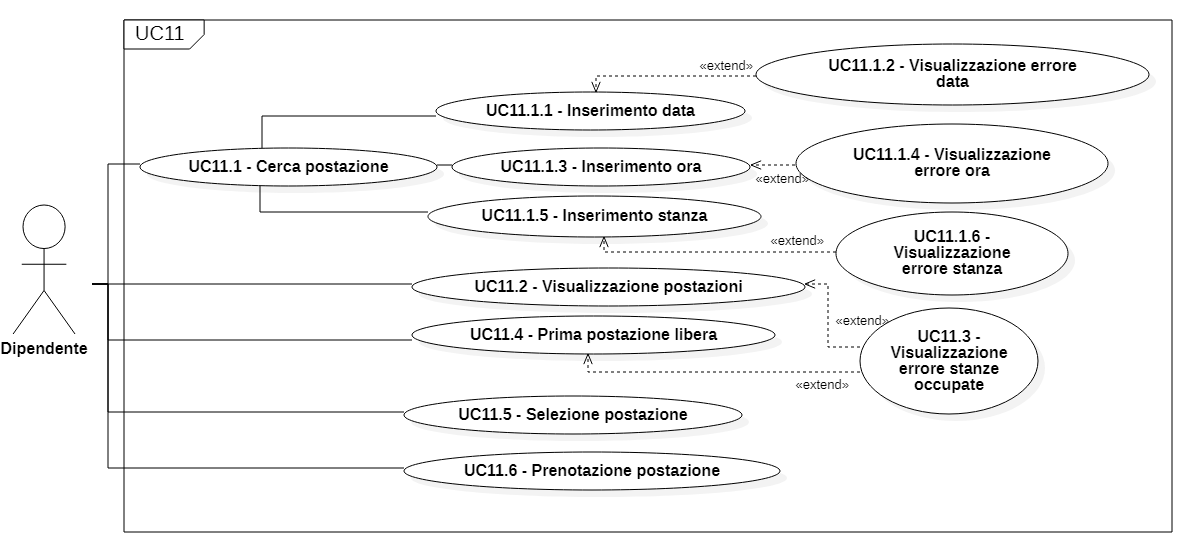
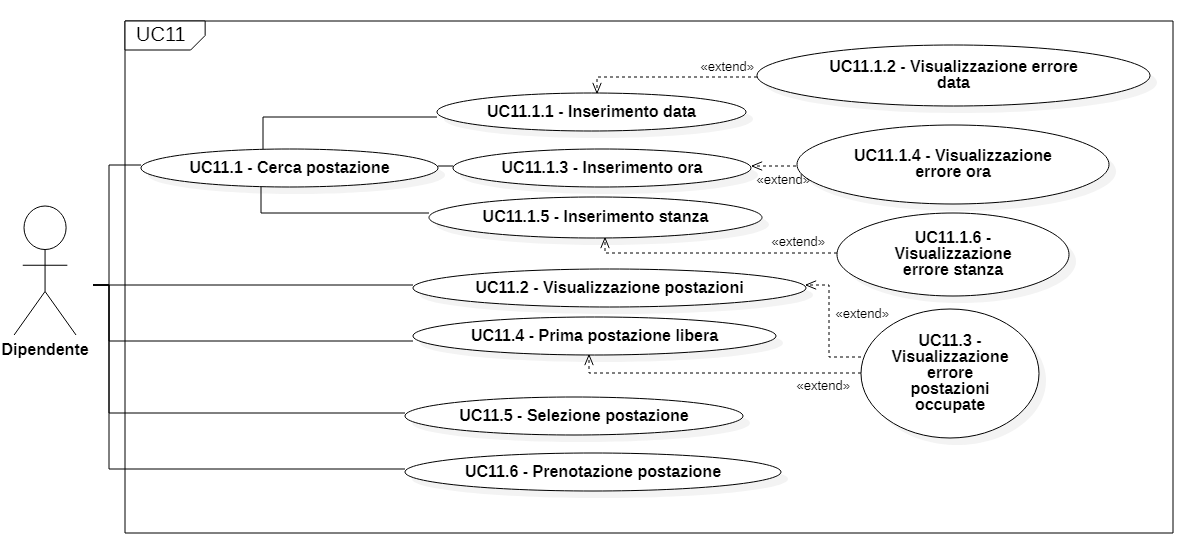
Correzioni AdR #42

diff --git a/esterni/AnalisiDeiRequisiti/res/sections/casiUso.tex b/esterni/AnalisiDeiRequisiti/res/sections/casiUso.tex
@@ -686,7 +686,7 @@ In questa sezione sono riportati tutti i casi d'uso individuati, ordinati per at
            	\item\textbf{Postcondizione:} l’utente conosce lo stato della postazione.
            	\item\textbf{Estensioni:}
            	\begin{itemize}
-           		\item[$-$] visualizzazione errore: lo smartphone è troppo distante dal tag RFID per effettuare correttamente la scansione (UC9.2).
+           		\item[$-$] visualizzazione errore: lo smartphone è troppo distante dal tag RFID per effettuare correttamente la scansione (UC8.2).
            	\end{itemize}
 \end{itemize}
 \subsubsection{ UC8.1 - Scansione tag RFID}
@@ -740,8 +740,8 @@ In questa sezione sono riportati tutti i casi d'uso individuati, ordinati per at
            	\item\textbf{Estensioni:} 
            	\begin{itemize}
            		\item[$-$] visualizzazione errore: se l'utente sposta lo smartphone dal tag RFID (ad esempio per una telefonata), 
-           		dopo un timeout di qualche minuto, viene visualizzato un messaggio di errore (UC10.2);
-           		\item[$-$] visualizzazione errore: se l'utente si dimentica di premere il bottone di fine occupazione della postazione, viene visualizzato un messaggio di errore (UC 10.4).
+           		dopo un timeout di qualche minuto, viene visualizzato un messaggio di errore (UC9.2);
+           		\item[$-$] visualizzazione errore: se l'utente si dimentica di premere il bottone di fine occupazione della postazione, viene visualizzato un messaggio di errore (UC 9.4).
            	\end{itemize}
 \end{itemize}
 \subsubsection{ UC9.1 - Presenza in tempo reale}
@@ -836,17 +836,17 @@ In questa sezione sono riportati tutti i casi d'uso individuati, ordinati per at
 	\item\textbf{Descrizione:} l’utente vuole prenotare una postazione di una stanza in un determinato giorno e orario.
 	\item\textbf{Scenario principale:} 
 	\begin{itemize}
-		\item[$-$] l’utente inserisce la data (UC10.1.1);
-		\item[$-$] l’utente inserisce l'orario (UC10.1.3);
-		\item[$-$] l’utente inserisce l'identificativo della stanza (UC10.1.5).
+		\item[$-$] l’utente inserisce la data (UC11.1.1);
+		\item[$-$] l’utente inserisce l'orario (UC11.1.3);
+		\item[$-$] l’utente inserisce l'identificativo della stanza (UC11.1.5).
 	\end{itemize}
 	\item\textbf{Precondizione:} l’utente sta navigando nella sezione dell'applicazione dedicata alla ricerca di una postazione.
-	\item\textbf{Postcondizione:} l’utente sta navigando nella sezione dell'applicazione dedicata alla ricerca di una postazione.
+	\item\textbf{Postcondizione:} l’utente inserisce i campi necessari alla ricerca della postazione desiderata.
 	\item\textbf{Estensioni:} l’utente inserisce i campi necessari alla ricerca della postazione desiderata.
 	\begin{itemize}
-		\item[$-$] l’utente inserisce una data non valida (UC10.1.2);
-		\item[$-$] l’utente inserisce un orario non valido (UC10.1.4);
-		\item[$-$] l’utente inserisce una stanza non valida (UC10.1.6).
+		\item[$-$] l’utente inserisce una data non valida (UC11.1.2);
+		\item[$-$] l’utente inserisce un orario non valido (UC11.1.4);
+		\item[$-$] l’utente inserisce una stanza non valida (UC11.1.6).
 	\end{itemize}
 \end{itemize}
 \subsubsection{ UC11.1.1 - Inserimento data }
@@ -922,10 +922,10 @@ In questa sezione sono riportati tutti i casi d'uso individuati, ordinati per at
 	\item\textbf{Postcondizione:} l’utente visualizza le postazioni nella stanza.
 	\item\textbf{Estensioni:}
 	\begin{itemize}
-		\item[$-$] visualizzazione errore: tutte le postazioni nella stanza selezionata sono occupate o guaste (UC 12.3).
+		\item[$-$] visualizzazione errore: tutte le postazioni nella stanza selezionata sono occupate o guaste (UC11.3).
 	\end{itemize}
 \end{itemize}
-\subsubsection{ UC11.3 - Visualizzazione errore: stanze occupate }
+\subsubsection{ UC11.3 - Visualizzazione errore: postazioni occupate }
 \begin{itemize}
 	\item\textbf{Attori Primari:} dipendente.
 	\item\textbf{Descrizione:} l’utente visualizza un messaggio di errore, in quanto non ci sono postazioni prenotabili.
@@ -933,10 +933,10 @@ In questa sezione sono riportati tutti i casi d'uso individuati, ordinati per at
 	\begin{itemize}
 		\item[$-$] l’utente ha inserito i campi data, orario, stanza;
 		\item[$-$] il sistema elabora la richiesta;
-		\item[$-$] viene visualizzato un messaggio di errore che consiglia di selezionare un'altra fascia oraria.
+		\item[$-$] viene visualizzato un messaggio di errore che consiglia di selezionare un'altra fascia oraria o stanza.
 	\end{itemize}
 	\item\textbf{Precondizione:} l’utente ha compilato i campi data, orario, stanza oppure ha selezionato la sezione prima postazione 
-	disponibile (UC12.4).
+	disponibile (UC11.4).
 	\item\textbf{Postcondizione:} l’utente visualizza un messaggio di errore specifico e non porta a termine l’azione.
 \end{itemize}
 \subsubsection{ UC11.4 - Prima postazione libera }
@@ -944,12 +944,12 @@ In questa sezione sono riportati tutti i casi d'uso individuati, ordinati per at
 	\item\textbf{Attori Primari:} dipendente.
 	\item\textbf{Descrizione:} l’utente riceve l'identificativo di una postazione igienizzata e libera in una determinata stanza, 
 	in modo automatico e in base a un criterio di distanziamento dalle altre postazioni.
-	\item\textbf{Scenario principale:} viene fornito l'identificativo di una postazione libera e igienizzata, oppure di una libera e non igienizzata (si veda UC11).
+	\item\textbf{Scenario principale:} viene fornito l'identificativo di una postazione libera e igienizzata, oppure di una libera e non igienizzata (si veda UC10).
 	\item\textbf{Precondizione:} l’utente preme il bottone nella sezione della prima postazione disponibile.
 	\item\textbf{Postcondizione:} l’utente riceve l'identificativo di una postazione.
 	\item\textbf{Estensioni:}
 	\begin{itemize}
-		\item[$-$] tutte le postazioni nella stanza selezionata sono occupate o guaste (UC12.3).
+		\item[$-$] tutte le postazioni nella stanza selezionata sono occupate o guaste (UC11.3).
 	\end{itemize}
 \end{itemize}
 \subsubsection{ UC11.5 - Selezione postazione }
@@ -970,7 +970,7 @@ In questa sezione sono riportati tutti i casi d'uso individuati, ordinati per at
 	\item\textbf{Postcondizione:} l'utente prenota la postazione.
 	\item\textbf{Estensioni:}
 	\begin{itemize}
-		\item[$-$] nel caso in cui l'utente scelga di prenotare una postazione libera e sporca si veda UC11,
+		\item[$-$] nel caso in cui l'utente scelga di prenotare una postazione libera e sporca si veda UC10,
 		per poi tornare allo scenario principale.
 	\end{itemize}
 \end{itemize}
